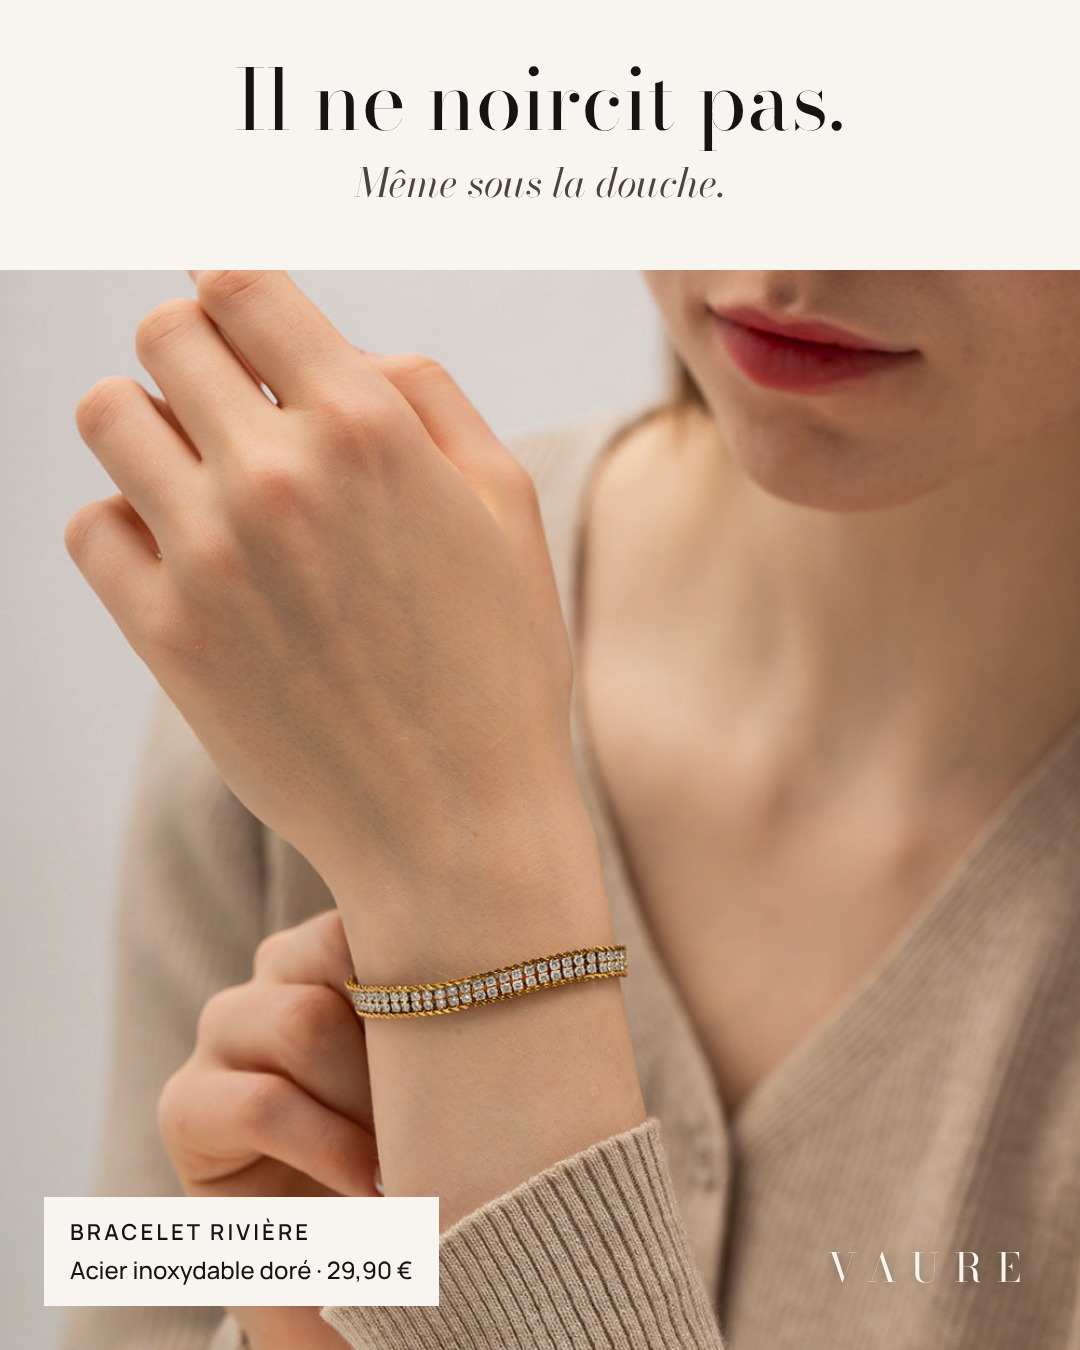
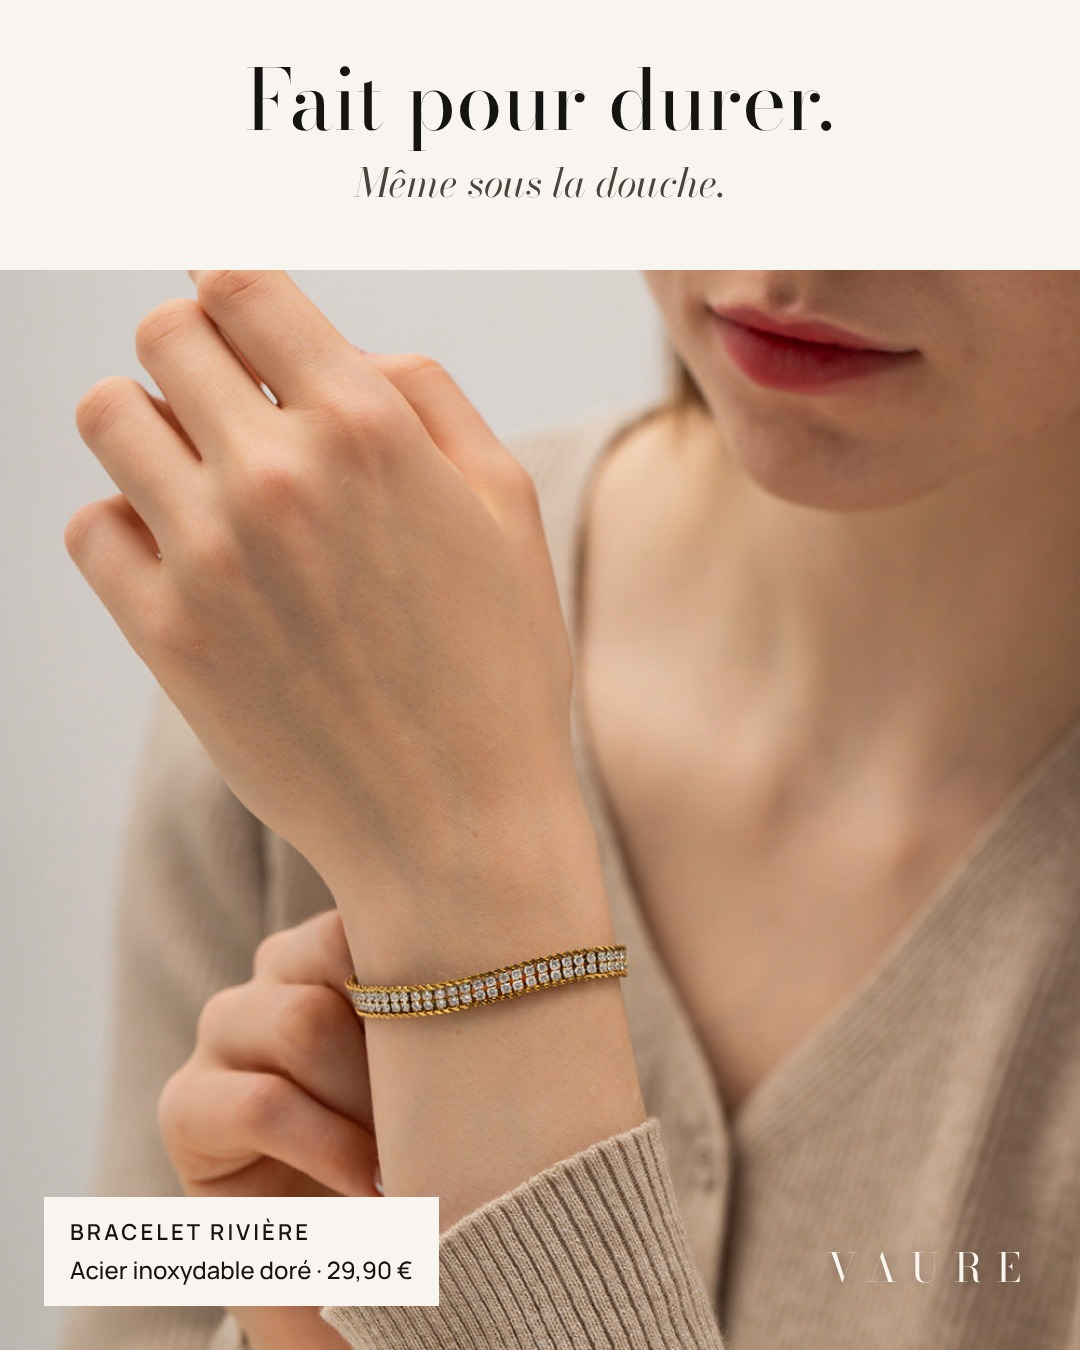
Remplacement de « noircir » par « faits pour durer » (pubs, image de lien, docs)
Claude-Session: https://claude.ai/code/session_013s4U6wyjEEiqqasJXAgjhq

Changed region(s): [[0.2139, 0.0311, 0.7639, 0.1244]]

diff --git a/vaure/docs/lancement.md b/vaure/docs/lancement.md
@@ -63,3 +63,4 @@ Le thème Rebel (VAURE) est le thème publié sur jimenez-shop.com.
 - 01/11 – CGV et Mentions légales VAURE publiées (adresse provisoire : 5 rue du Docteur Schapira, Neuilly-sur-Marne, à remplacer par la domiciliation). Liens ajoutés au menu « VAURE – Maison », /pages/mentions-legales redirigé. Manque : médiateur de la consommation, nom de l'entrepreneur (directeur de publication). Politiques Shopify (Contact, CGU) non modifiables par l'API.
 - 01/11 – E-mail personnel retiré des CGV et Mentions légales (remplacé par le formulaire de contact). À prévoir : contact@vaure.fr (transfert d'e-mail Shopify) à ajouter.
 - 01/11 – Accueil v2 : haut de page remplacé par la photo de colliers superposés floutée (vaure-hero-flou.jpg / -mobile.jpg), texte en clair (scheme-6). Image d'aperçu des liens floutée dans Fichiers : vaure-apercu-lien-flou.jpg (à choisir dans Préférences).
+- 01/11 – « noircir » remplacé par « fait(e)s pour durer » partout : 58 fiches produits (texte + SEO), 5 collections, pages Notre histoire / Matières / FAQ, 3 articles du Journal, thème v2 (accueil, comparatif panier et fiche, titre SEO, impression), 6 pubs et image de lien.

diff --git a/vaure/docs/lancer-les-pubs-instagram.md b/vaure/docs/lancer-les-pubs-instagram.md
@@ -3,10 +3,10 @@
 | Visuel | Lien du bouton |
 |---|---|
 | vaure-pub-bagues.jpg – « Fini le doigt vert. » | /collections/bagues |
-| vaure-pub-superposes.jpg – « Superposés. Jamais noircis. » | /products/collier-pendentif-navette (Inès) |
+| vaure-pub-superposes.jpg – « Superposés. Faits pour durer. » | /products/collier-pendentif-navette (Inès) |
 | vaure-pub-eau.jpg – « Même dans l'eau, ils restent dorés. » | /collections/bracelets |
 | vaure-pub-cadeau.jpg – « Le cadeau qu'elle portera tous les jours. » | /products/duo-fleur-de-nacre |
-| vaure-pub-nouveautes.jpg – « Nouveaux colliers, toujours sans noircir. » | /collections/nouveautes |
+| vaure-pub-nouveautes.jpg – « Nouveaux colliers, faits pour durer. » | /collections/nouveautes |
 | vaure-pub-riviere.jpg (déjà faite) | /products/bracelet-riviere |
 
 ## Méthode Shopify (recommandée)
